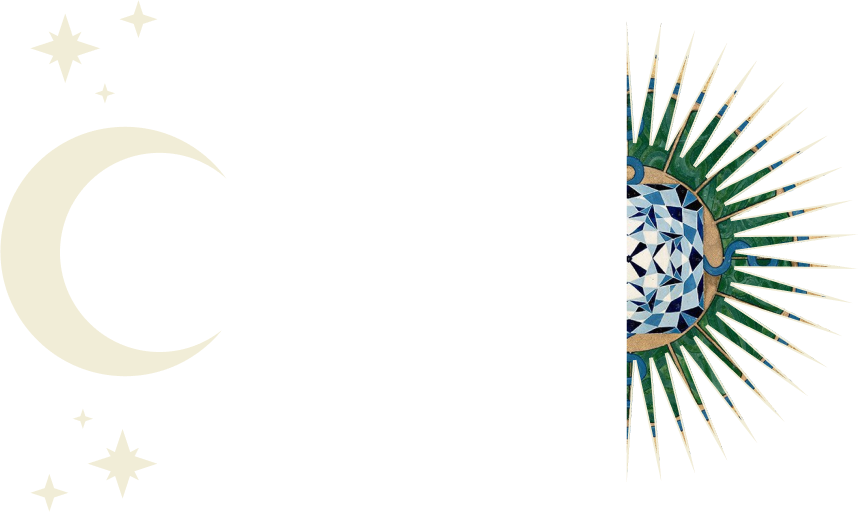
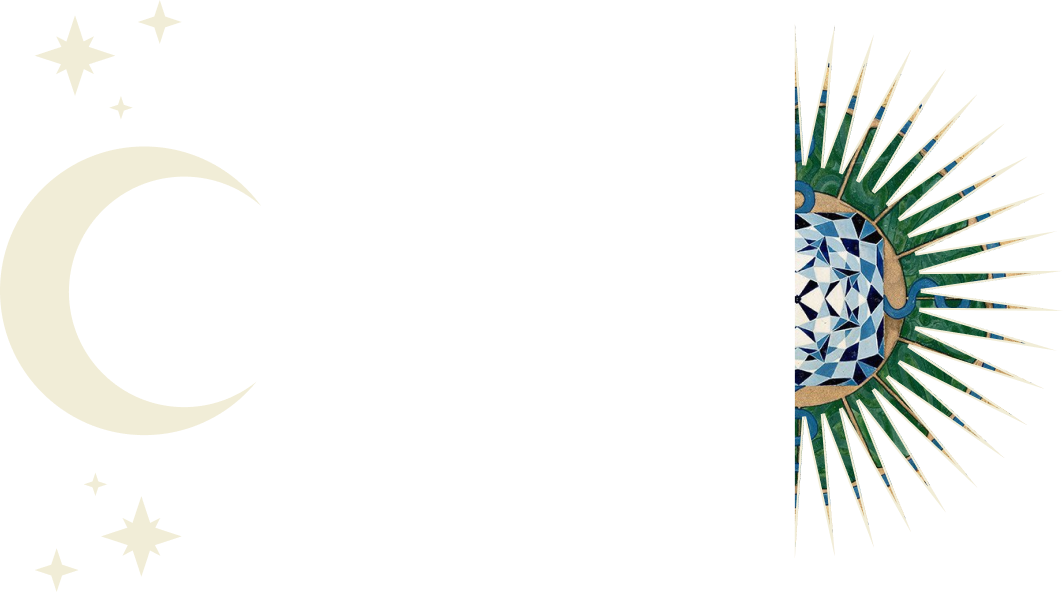
Multiple CSS flex changes and body text added to subpages

diff --git a/jung/self.html b/jung/self.html
@@ -52,12 +52,21 @@
       </div>
       <div class="vert-lines"></div>
       <div class="horiz-lines"></div>
-      <section class="self-intro">
-        <img src="images/archway.png" alt="Jung painting cropped as a mandala with starburst graphics">
-      </section> 
-      <p>The archetype of self provides a sense of unity in experience with an ultimate aim for every individual being to achieve a state of selfhood or self-actualization. Jung argued that many of the problems of modern life are caused by “man’s progressive alienation from his instinctual foundation.” 
-        <br><br>
-        The self is the unification of consciousness and unconsciousness in a person. It is the product of individuation. According to Jung, this is the process of integrating various aspects of one's personality into an encompassing whole which acts as a container. In his art he often symbolized it with a circle, square, or mandala.</p>
-       
+      <div class="self-intro">
+        <p class="centered-text-self">The archetype of self provides a sense of unity in experience with an ultimate aim for every individual being to achieve a state of selfhood or self-actualization. Jung argued that many of the problems of modern life are caused by “man’s progressive alienation from his instinctual foundation.” 
+          <br><br>
+          The self is the unification of consciousness and unconsciousness in a person. It is the product of individuation. According to Jung, this is the process of integrating various aspects of one's personality into an encompassing whole which acts as a container. In his art he often symbolized it with a circle, square, or mandala.</p>
+          <img src="images/archway.png" alt="Jung mandala painting cropped as archway with columns">
+        </div> 
+        <footer class="footer">
+          <h5 class="foot-left">
+            4 Archetypes of CG Jung<br/>
+            Justin Cory © 2023
+          </h5>
+          <h5 class="foot-right">
+            All paintings & quotes<br/>
+            by CG Jung
+          </h5>
+        </footer>
 </body>
 </html>

diff --git a/jung/stylesheet.css b/jung/stylesheet.css
@@ -89,7 +89,8 @@ nav ul {
   justify-content: space-between;
   margin: auto;
   z-index: 999;
-  background: #1f1f1f;
+  /* nav with background 
+  background: #1f1f1f; */
 }
 nav a {
   display: inline-block;
@@ -173,7 +174,8 @@ nav li {
   padding-bottom: 200px;
 }
 .ovals img {
-  width: 200%;
+  width: 150%;
+  justify-content: center;
 }
 
 .card img {
@@ -184,7 +186,18 @@ nav li {
   flex: 1;
   display: flex;
   justify-content: center;
+}
+.card .self {
   z-index: 9;
+}
+.card .persona {
+  z-index: 8;
+}
+.card .shadow {
+  z-index: 7;
+}
+.card .anima {
+  z-index: 6;
 }
 
 /* corner icon svg styling*/
@@ -197,36 +210,67 @@ nav li {
 .icon.top-left {
   top: 13px;
   left: 3px;
-  z-index: 4;
+  z-index: 15;
 }
 .icon.top-right {
   top: 15px;
   right: 15px;
+  z-index: 15;
 }
 .icon.bottom-left {
   bottom: 15px;
   left: 15px;
+  z-index: 15;
 }
 .icon.bottom-right {
   bottom: 15px;
   right: 15px;
+  z-index: 15;
 }
 
-/* self page styling*/
+/* subpage intro styling */
 
 .self-intro {
+  position: relative;
+  text-align: center;
   margin: auto;
   padding: 120px 120px;
   align-items: center;
   justify-content: center;
-  display: flex;
 }
 .self-intro img {
   z-index: 14;
+  width: 85%;
+  height: auto;
 }
-.self-intro p {
-  display: flex;
+
+/* centered text */
+
+.centered-text {
+  position: absolute;
+  top: 50%;
+  left: 50%;
+  transform: translate(-50%, -50%);
+  width: 35%;
+  z-index: 15;
 }
+.centered-text-self {
+  position: absolute;
+  top: 60%;
+  left: 50%;
+  transform: translate(-50%, -50%);
+  width: 35%;
+  z-index: 15;
+}
+.centered-text-shadow {
+  position: absolute;
+  top: 50%;
+  left: 50%;
+  transform: translate(-50%, -50%);
+  width: 30%;
+  z-index: 15;
+}
+/* footer styling */
 
 footer {
   height: 100px;

diff --git a/jung/anima.html b/jung/anima.html
@@ -50,8 +50,24 @@
         </svg></a></div>
       <div class="vert-lines"></div>
       <div class="horiz-lines"></div>
-      <section class="self-intro">
-        <img src="images/anima-frame.png" alt="Jung painting cropped as a mandala with starburst graphics">
-      </section>
+      <div class="self-intro">
+        <p class="centered-text-shadow">
+          Jung believed that within the shadow were two contra-sexual archetypes: the anima and the animus.An unconscious feminine aspect called the anima within those socialized male, and an unconscious masculine aspect called the animus in those socialized female. He believed that the anima and animus were seldom realized because of their distance from our consciousness.
+          <br><br>
+          Integrating the anima becomes the Eros of nurturing and care much like the mother archetype. Integrating the animus becomes the Logos of assertiveness and deliberation.<br><br>
+          The recognition of the anima gives rises to a triad: the masculine subject, the feminine subject, and the transcendent anima or animus. Integrating these archetypes makes us more aware of who we really are and of the elements in our psyche beyond our own control.
+        </p>
+        <img src="images/anima-frame.png" alt="Jung mandala painting cropped as a frame with moon and stars on the left and a sun burst on the right">
+      </div>
+      <footer class="footer">
+        <h5 class="foot-left">
+          4 Archetypes of CG Jung<br/>
+          Justin Cory © 2023
+        </h5>
+        <h5 class="foot-right">
+          All paintings & quotes<br/>
+          by CG Jung
+        </h5>
+      </footer>
 </body>
 </html>

diff --git a/jung/shadow.html b/jung/shadow.html
@@ -42,8 +42,23 @@
             </svg></a></div>
       <div class="vert-lines"></div>
       <div class="horiz-lines"></div>
-      <section class="self-intro">
-        <img src="images/shadow-frame.png" alt="Jung painting cropped as a mandala with starburst graphics">
-      </section>
+      <div class="self-intro">
+        <p class="centered-text-shadow">
+          As the name suggests, the shadow is the unconscious dark side of the personality. There are elements of the personal unconscious that are developed within an individual’s lifetime as well as aspects of a collective unconscious made up of archetypes from the primordial past.
+          <br><br>
+          Without analyzing the shadow directly, we will project its qualities onto others – the qualities that we most dislike within ourselves. To truly evolve, one must integrate their shadow and balance it with their Persona. According to Jung, the dissolution of the persona and working to understand one’s own shadow is crucial to the process of individuation or self-actualization.
+        </p>
+        <img src="images/shadow-frame.png" alt="Jung dragon/serpent painting cropped as a framing half moon device">
+      </div>
+      <footer class="footer">
+        <h5 class="foot-left">
+          4 Archetypes of CG Jung<br/>
+          Justin Cory © 2023
+        </h5>
+        <h5 class="foot-right">
+          All paintings & quotes<br/>
+          by CG Jung
+        </h5>
+      </footer>
 </body>
 </html>

diff --git a/jung/persona.html b/jung/persona.html
@@ -50,9 +50,20 @@
         </a></div>
       <div class="vert-lines"></div>
       <div class="horiz-lines"></div>
-      <section class="self-intro">
-        <img src="images/eye-frame.png" alt="Jung painting cropped as a mandala with starburst graphics">
-      </section>
-      
+      <div class="self-intro">
+        <p class="centered-text-shadow">Jung presented the persona as a mask that we present to the world. We use it to conceal our true self in a way that leads Jung to describe this as the “conformity” archetype. Our social species aims to please others with our persona, however this leads to the development of negative traits that contradict our real selves, forming the next archetype: our Shadow.
+        </p>
+        <img src="images/eye-frame.png" alt="Jung mandala painting cropped as an eye-shaped framing device">
+        </div>
+        <footer class="footer">
+          <h5 class="foot-left">
+            4 Archetypes of CG Jung<br/>
+            Justin Cory © 2023
+          </h5>
+          <h5 class="foot-right">
+            All paintings & quotes<br/>
+            by CG Jung
+          </h5>
+        </footer>
 </body>
 </html>
